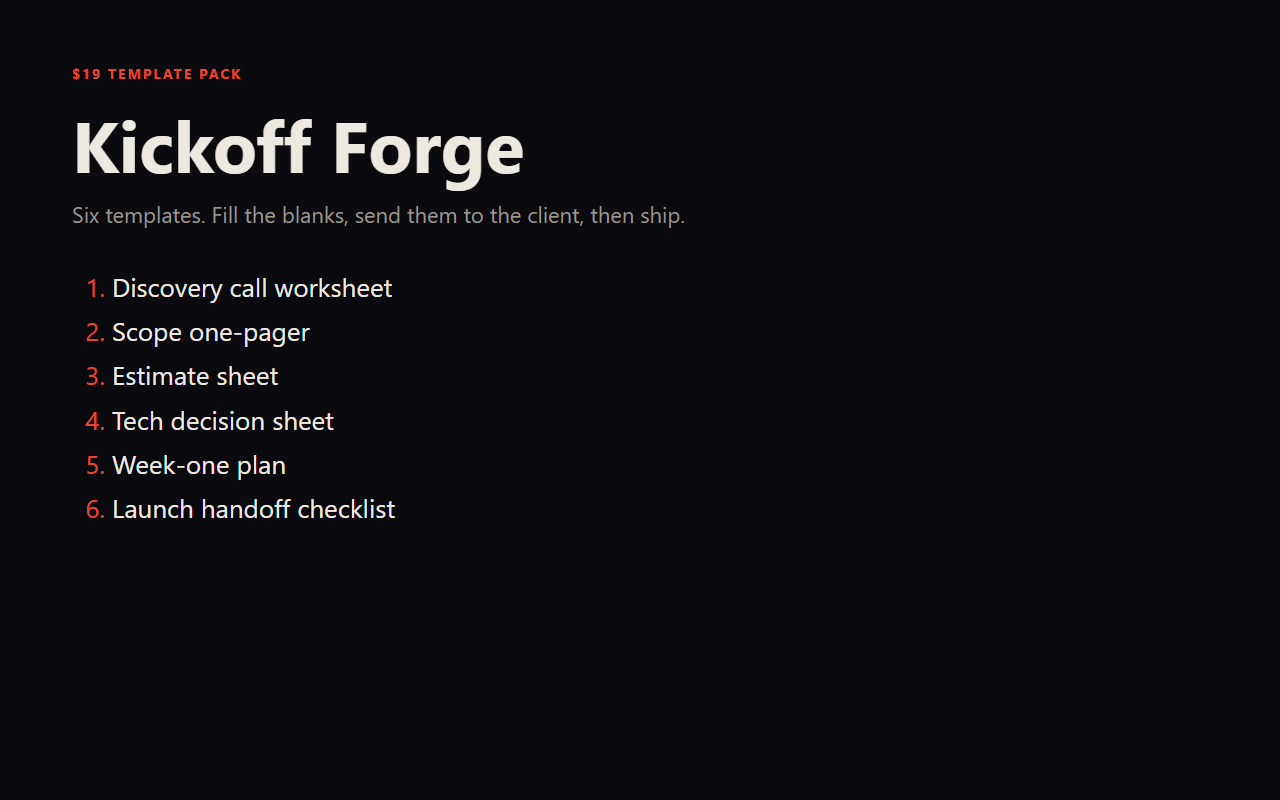
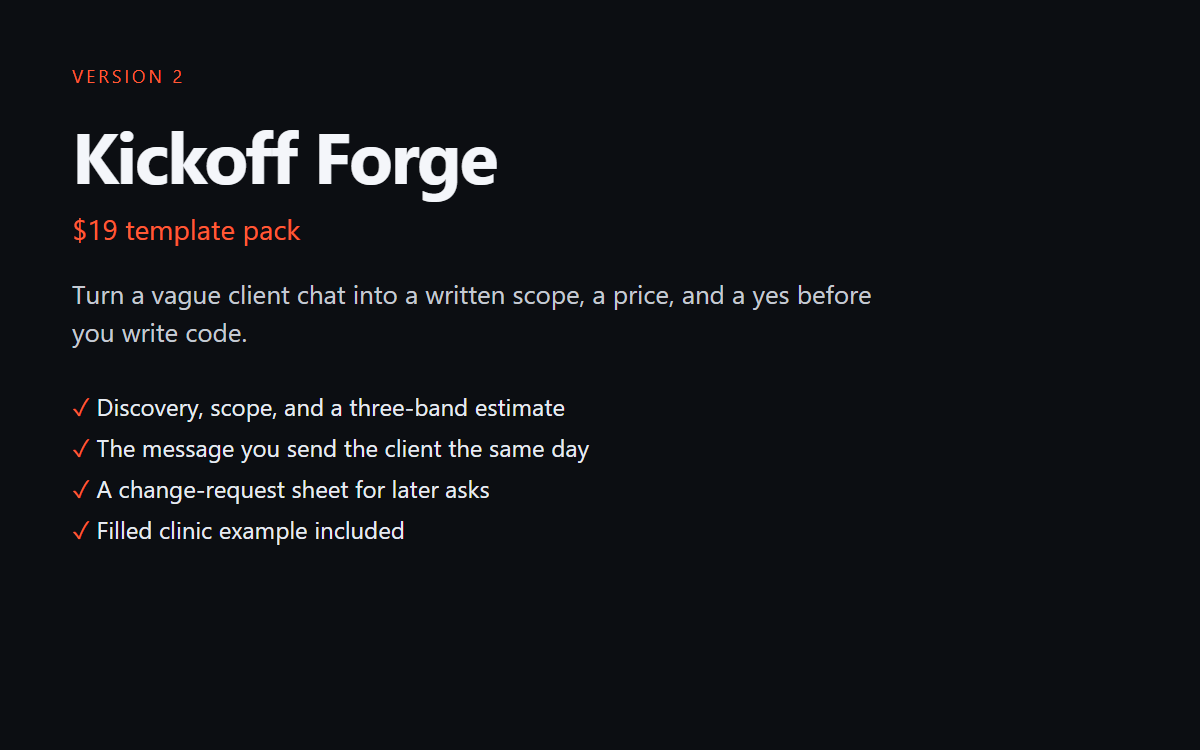
Ship Kickoff Forge 2.0 with a client message, change request, and filled example.

Changed region(s): [[0.0617, 0.1227, 0.74, 0.4907], [0.0617, 0.5213, 0.4933, 0.736], [0.0617, 0.0613, 0.185, 0.1227]]

diff --git a/components/products/kickoff-forge-demo.tsx b/components/products/kickoff-forge-demo.tsx
@@ -12,8 +12,7 @@ export function KickoffForgeDemo() {
         Discovery call: filled example
       </h2>
       <p className="mt-2 text-sm text-neutral-500 max-w-2xl leading-relaxed">
-        This is what a completed sheet looks like. The pack you buy is blank templates you reuse per
-        client.
+        This is what a completed sheet looks like. Version 2 of the pack includes this example plus the blank sheets, the client message, and a change request.
       </p>
 
       <div className="mt-6 rounded-2xl border border-white/[0.08] bg-white/[0.02] px-5 py-6 sm:px-7 sm:py-8 font-mono text-[13px] leading-relaxed text-neutral-300">

diff --git a/digital-products/kickoff-forge/00-start-here.md b/digital-products/kickoff-forge/00-start-here.md
@@ -1,0 +1,37 @@
+# Kickoff Forge 2.0
+
+Use this pack before you write code. One client, one folder, then send the scope for a written yes.
+
+Version 2 adds the message you paste to the client, a change-request sheet, and a filled example (Nova Clinics) so you can see a finished kickoff.
+
+## Order of work
+
+1. Copy this folder and rename it with the client name.
+2. Fill `01-discovery-call.md` on the call.
+3. Same day, fill `02-scope-one-pager.md` and `03-estimate-sheet.md`.
+4. Paste `07-message-to-client.md`, attach those two files, and wait for a reply.
+5. After they agree, fill `04-tech-decision.md` and `05-week-one-plan.md`, then start the repo.
+6. At launch, run `06-handoff-checklist.md`.
+7. If they add work later, use `08-change-request.md` before you build it.
+
+## Files
+
+| File | Use when |
+|------|----------|
+| `01-discovery-call.md` | First call |
+| `02-scope-one-pager.md` | What you will and will not build |
+| `03-estimate-sheet.md` | Hours, three price bands, deposit |
+| `04-tech-decision.md` | Stack, in writing |
+| `05-week-one-plan.md` | First five working days |
+| `06-handoff-checklist.md` | Launch and ownership |
+| `07-message-to-client.md` | Email or chat after the call |
+| `08-change-request.md` | New work after sign-off |
+| `examples/nova-clinics/` | A completed discovery, scope, and estimate |
+
+## Rule
+
+Do not open the repo until the client has replied to the scope. Verbal "sounds good" on a call is not sign-off.
+
+## License
+
+For the buyer's own freelance work. Do not resell or republish the pack as your own product.

diff --git a/digital-products/kickoff-forge/examples/nova-clinics/02-scope-one-pager.md b/digital-products/kickoff-forge/examples/nova-clinics/02-scope-one-pager.md
@@ -1,0 +1,62 @@
+# Example: Nova Clinics scope
+
+Project: Booking site
+Client: Nova Clinics
+Owner (you): Ali Hamza
+Date: 12 Mar 2026
+
+## Goal (one sentence)
+
+Patients book a slot on the clinic site, and the front desk sees one list instead of a WhatsApp thread.
+
+## In scope
+
+- Public booking form: service, doctor, date, slot
+- Admin list with status (booked, done, no-show)
+- One SMS reminder, 24 hours before
+- CSV export
+- Deploy on the clinic domain
+
+## Out of scope
+
+- Patient login
+- Medical records
+- Payments
+- More than one clinic location
+- A custom mobile app
+
+## Deliverables
+
+| # | Deliverable | Format |
+|---|-------------|--------|
+| 1 | Booking page | Live URL |
+| 2 | Admin appointment list | Login for the owner |
+| 3 | SMS reminder | One provider, tested |
+| 4 | Short admin note | Doc |
+
+## Success checks
+
+- [ ] A test patient can book a real slot
+- [ ] The owner can mark that visit done
+- [ ] A reminder sends the day before
+- [ ] CSV download includes that booking
+
+## Timeline
+
+- Start: 16 Mar 2026
+- Mid check-in: 23 Mar 2026
+- Target launch: 6 Apr 2026
+
+## Money
+
+- Price: $2,000 (standard band)
+- Deposit: $800 before the repo is created
+- Balance: $1,200 on launch
+- Extra features: change-request sheet, priced before build
+
+## Sign-off
+
+Client name: Dr. Sara  Date: ______
+Your name: Ali Hamza  Date: 12 Mar 2026
+
+If anything above changes, we update this page before more build work.

diff --git a/digital-products/kickoff-forge/examples/nova-clinics/01-discovery-call.md b/digital-products/kickoff-forge/examples/nova-clinics/01-discovery-call.md
@@ -1,0 +1,52 @@
+# Example: Nova Clinics discovery
+
+This is a filled sample. Your blank sheet is `01-discovery-call.md`.
+
+Client: Nova Clinics
+Date: 12 Mar 2026
+Channel: call
+
+## Problem in their words
+
+Patients book by WhatsApp. The front desk double-books and loses follow-ups. They want a simple booking site with SMS reminders before they pay for a full medical records system.
+
+## Who is hurt if this stays broken?
+
+Front desk (chaos), doctors (no-shows), patients (wait and mistrust).
+
+## What done looks like in 30 days
+
+A live booking page, an admin list of appointments, an SMS reminder 24 hours before, and a CSV export for the owner.
+
+## Must-haves (max 5)
+
+1. Public booking form (service, doctor, slot)
+2. Admin list of appointments
+3. SMS reminder through one provider
+4. Logo and two brand colors
+5. Deploy on their domain
+
+## Nice-to-haves (parked)
+
+- Patient accounts
+- Full medical records
+- Online payments
+
+## Constraints
+
+- Budget band: $1.5k to $2.5k for the MVP
+- Deadline: before the busy season, soft date
+- Who approves work: clinic owner, Dr. Sara
+- Existing stack / hosting: none they want to keep
+- Brand / design assets ready? logo yes, photos partial
+
+## Risks I heard
+
+- Owner may ask for records features mid-build
+- SMS provider account is not created yet
+
+## Next step I proposed
+
+- [x] Send scope one-pager
+- [x] Send estimate bands
+- [ ] Schedule follow-up for sign-off

diff --git a/digital-products/kickoff-forge/README.md b/digital-products/kickoff-forge/README.md
@@ -1,26 +1,15 @@
-# Kickoff Forge
+# Kickoff Forge 2.0
 
-Freelance client kickoff templates used to turn a vague chat into a clear build plan.
+Freelance kickoff pack. Turn a vague client chat into a written scope, a price, and a week-one plan before you write code.
 
-Copy each file into your Notion/Docs, fill the blanks, send to the client before you write code.
+Open `00-start-here.md` first.
 
-## Files
+## What changed in 2.0
 
-| File | Use when |
-|------|----------|
-| `01-discovery-call.md` | First call / discovery |
-| `02-scope-one-pager.md` | Written agreement of what ships |
-| `03-estimate-sheet.md` | Rough hours and price bands |
-| `04-tech-decision.md` | Stack choices with tradeoffs |
-| `05-week-one-plan.md` | First 5 working days |
-| `06-handoff-checklist.md` | Launch and ownership transfer |
-
-## How to use
-
-1. Duplicate the pack per client (rename the folder).
-2. Fill discovery during or after the first call.
-3. Send the scope one-pager for written confirmation.
-4. Only then open the repo and start building.
+- A start order, so you know which file to fill on the call
+- The message you paste to the client the same day
+- A change-request sheet for work that shows up after sign-off
+- A filled example (Nova Clinics) of discovery, scope, and estimate
 
 ## License
 

diff --git a/digital-products/kickoff-forge/examples/nova-clinics/03-estimate-sheet.md b/digital-products/kickoff-forge/examples/nova-clinics/03-estimate-sheet.md
@@ -1,0 +1,32 @@
+# Example: Nova Clinics estimate
+
+Project: Booking site
+
+## Work breakdown
+
+| Workstream | Hours (low) | Hours (high) | Notes |
+|------------|-------------|--------------|-------|
+| Discovery / setup | 3 | 4 | This pack, repo, domain |
+| UI pages | 8 | 12 | Booking page, admin list |
+| API / data | 6 | 8 | Slots, bookings |
+| Auth | 2 | 3 | Owner login only |
+| Integrations | 4 | 6 | One SMS provider |
+| Deploy / SEO | 2 | 3 | Their domain, titles |
+| Buffer (20%) | 5 | 7 | Fuzzy photos, SMS account delay |
+| **Total** | **30** | **43** | |
+
+## Price bands
+
+| Band | Hours | Rate | Total | When to use |
+|------|-------|------|-------|-------------|
+| Lean | 30 | $50 | $1,500 | No SMS, email reminder only |
+| Standard | 40 | $50 | $2,000 | SMS plus admin list |
+| Protected | 50 | $50 | $2,500 | Extra stakeholder, content not ready |
+
+## Recommendation to client
+
+I recommend the standard band because they need the SMS reminder, and the photos are only partly ready.
+
+Deposit: 40% ($800) before build.
+Balance on launch.
+New requests after sign-off use `08-change-request.md`.

diff --git a/digital-products/kickoff-forge/07-message-to-client.md b/digital-products/kickoff-forge/07-message-to-client.md
@@ -1,0 +1,26 @@
+# 07 - Message to the client
+
+Send this the same day as the call. Attach the scope one-pager and the estimate. Replace the brackets.
+
+---
+
+Subject: [Project name] scope and price, for a written yes
+
+Hi [Name],
+
+Thanks for the call. Here is the plan in writing so we both know what ships.
+
+Attached:
+1. Scope one-pager (in scope, out of scope, timeline)
+2. Estimate with three bands. I recommend the [lean / standard / protected] band because [one sentence].
+
+Price for that band: [amount]
+Deposit to start: [40%]
+Target start: [date]
+Target launch: [date]
+
+Please reply with "approved" or with the lines you want changed. I start the build after that reply, not before.
+
+If something new comes up after we start, I will send a short change note with the extra time and cost before I build it.
+
+[Your name]

diff --git a/digital-products/kickoff-forge/08-change-request.md b/digital-products/kickoff-forge/08-change-request.md
@@ -1,0 +1,36 @@
+# 08 - Change request
+
+Use this when the client asks for work that is not on the signed scope. Do not start the extra work until they reply yes.
+
+Project: ________________
+Date: ________________
+Requested by: ________________
+
+## What they asked for
+
+>
+
+## Why it is outside the current scope
+
+>
+
+## Effect
+
+| | Current plan | If we add this |
+|--|----------------|----------------|
+| Extra hours | | |
+| Extra cost | | |
+| New launch date | | |
+| What slips or gets cut | | |
+
+## Decision
+
+- [ ] Add it. New total: ________  New launch: ________
+- [ ] Park it for a later phase
+- [ ] Drop it
+
+Client reply (paste):
+
+>
+
+Your name: ________________  Date: ______

diff --git a/digital-products/kickoff-forge/03-estimate-sheet.md b/digital-products/kickoff-forge/03-estimate-sheet.md
@@ -31,6 +31,12 @@ Project: ________________
 - Content migration
 - Rush timeline
 
+## Payment
+
+- Deposit before any build: 40% of the chosen band
+- Balance: on launch
+- Work that is not in the scope: use `08-change-request.md` before you build it
+
 ## Recommendation to client
 
 I recommend the ________ band because:
